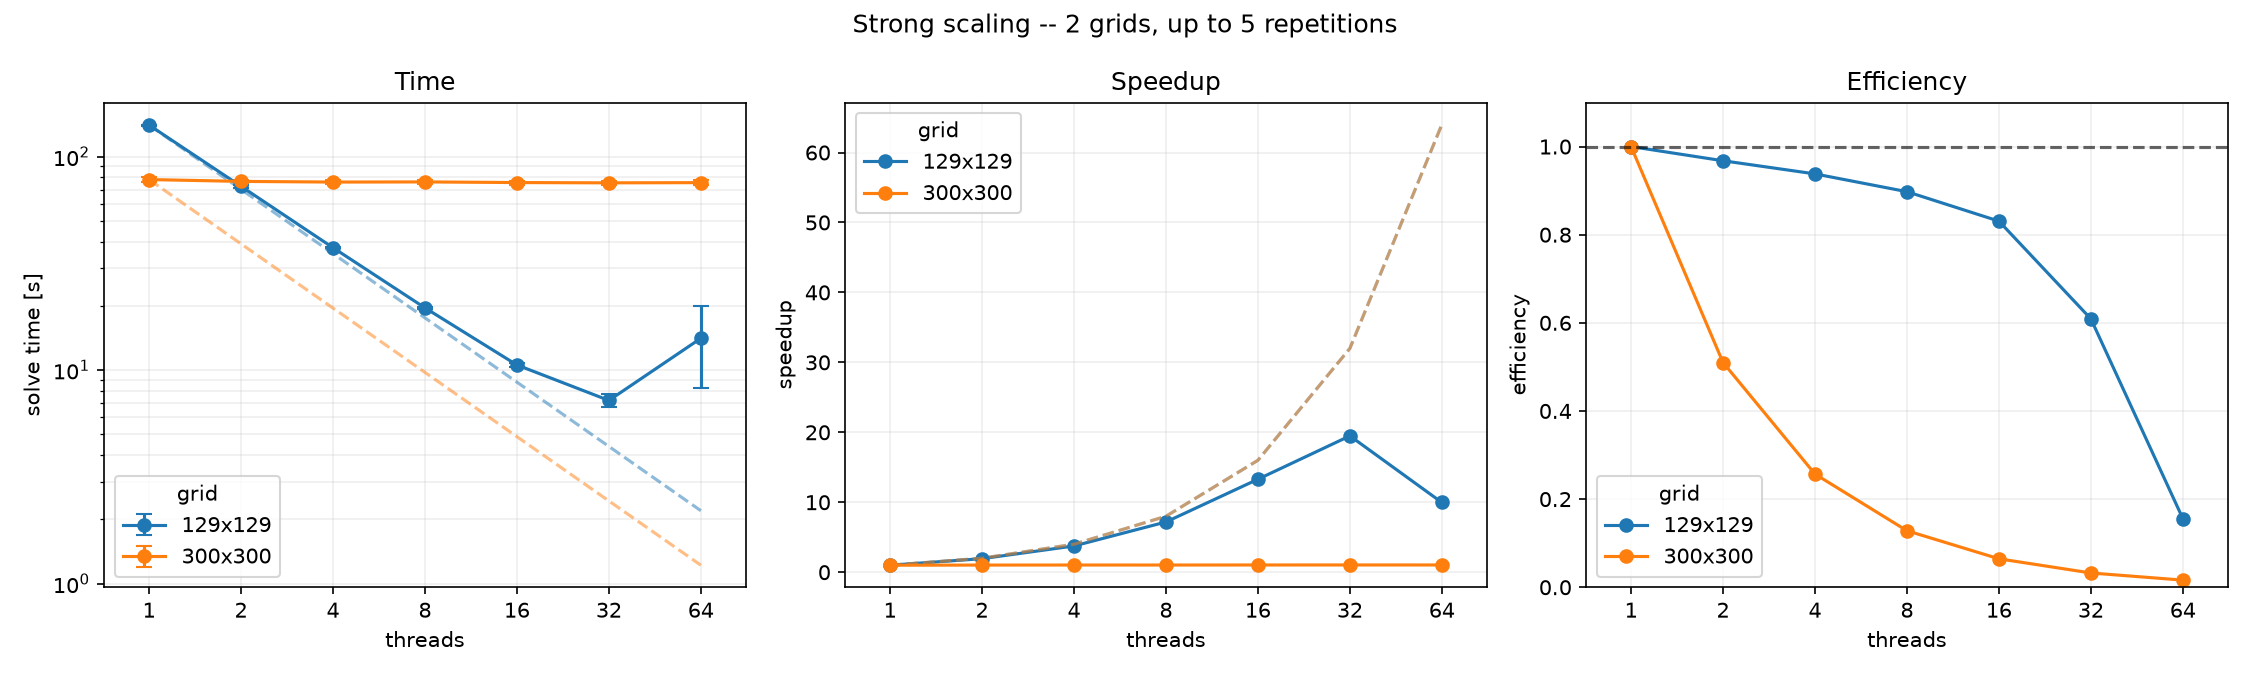
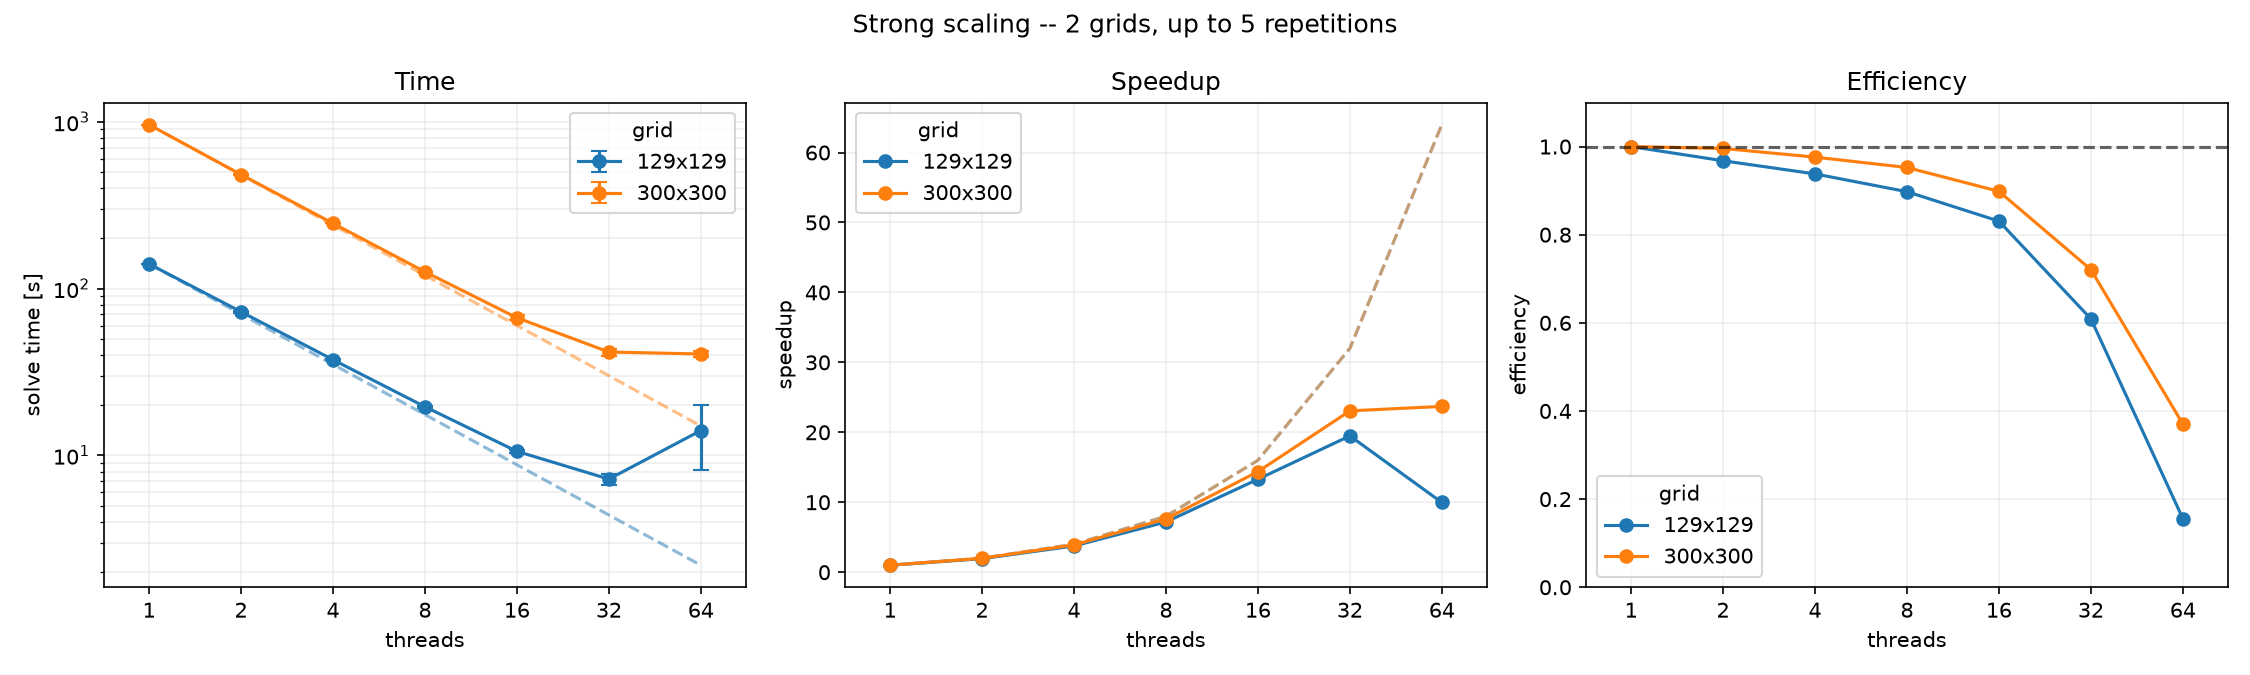
fix(strong scaling): strong scaling correction

diff --git a/docs/report/architecture.md b/docs/report/architecture.md
@@ -1,0 +1,4 @@
+# Architecture
+
+<!--toc:start-->
+<!--toc:end-->
